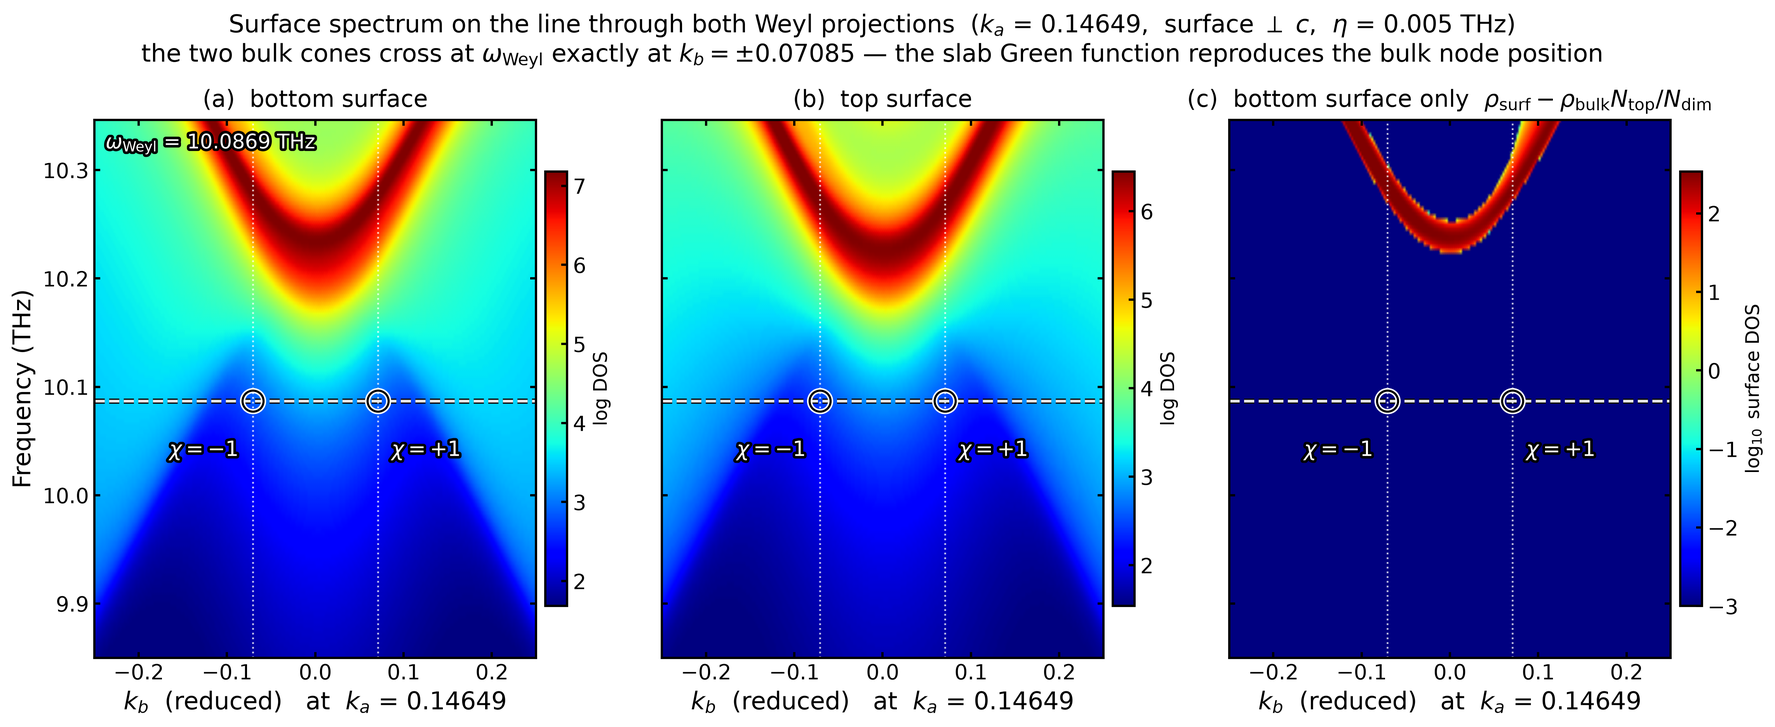
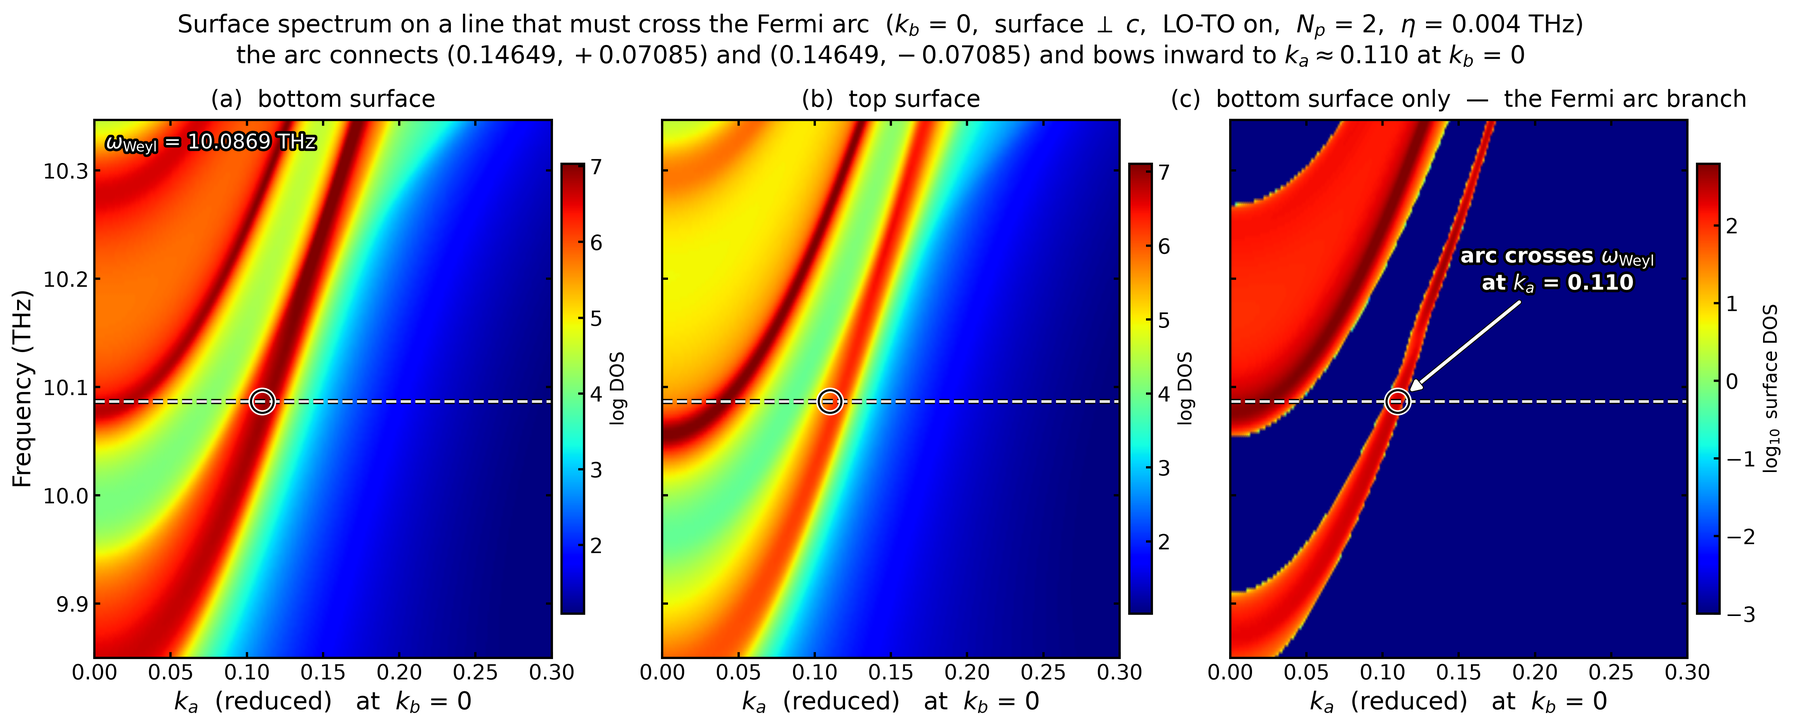
fig4 를 아크 관통 직선(k_b=0)으로 교체, 문서 갱신
- fig4: k_b=0, k_a 0->0.30.  fig3 지도에서 아크가 이 선을 k_a=0.110 에서
  지나는 걸 확인하고 고른 경로다.  표면 전용 스펙트럼에서 아크 가지가
  omega_Weyl 을 가로지르는 게 선명하다.
- SUMMARY 17절 전면 개정: fermiarc LO-TO 누락, dos_l_only 정규화 오류,
  간극 없음/공명, 아크 종단 증거, 거울 대칭 미해결 건, 직렬 빌드 검증.
- figs/README.md 도 같은 내용으로 갱신.

Claude-Session: https://claude.ai/code/session_01QhAUpBYpemnn6yKhi2Mgwn

diff --git a/scripts/figs/fig4_slabss.py b/scripts/figs/fig4_slabss.py
@@ -1,87 +1,83 @@
 #!/usr/bin/env python3
-"""Fig 4: 두 바일 사영점을 관통하는 직선 위의 표면 상태 스펙트럼.
+"""Fig 4: 페르미 아크를 가로지르는 경로 위의 표면 상태 스펙트럼.
 
-경로는 `k_a = 0.14649` 고정, `k_b : -0.25 → +0.25`.  이 선은 chirality 가
-반대인 두 사영점 `(0.14649, ±0.07085)` 을 정확히 지난다.  아크는 그 두 점에서
-끝나야 하므로, 이 선을 따라가면 표면 상태가 사영점에서 벌크 연속체로
-빨려 들어가며 사라지는 게 보인다.
+경로는 `k_b = 0` 고정, `k_a : 0 → 0.30`.  fig 3 (d) 에서 아크는 chirality 가
+반대인 두 사영점 `(0.14649, ±0.07085)` 을 잇고 `k_b = 0` 에서 `k_a ≈ 0.110`
+까지 안쪽으로 휘어 있다.  그래서 이 직선은 **아크를 반드시 한 번 관통한다.**
 
-노드 주파수에서는 사영 벌크 연속체가 표면 BZ 전체를 덮으므로(간극이 없다)
-아크는 고립 상태가 아니라 공명이다.  raw DOS 로는 벌크에 묻히고,
-위/아래 표면 차 `dos_l − dos_r` 에서 깨끗하게 드러난다.
+노드 주파수에는 벌크 간극이 없으므로(사영 연속체가 표면 BZ 전체를 덮는다)
+raw DOS 로는 벌크에 묻힌다.  (c) 의 표면 전용 값에서 아크 가지가 ω_Weyl 을
+가로지르는 게 선명하게 보인다.
+
+표면 전용 = ρ_surf − ρ_bulk·N_top/N_dim.  Simphony 의 `dos_l_only` 열은 이
+궤도 개수 보정이 없어 전부 eps9 로 잘려 나온다
+(`patch/apply_surfdos_only_norm_fix.py`).
 """
 import sys, os, re
 import numpy as np
 sys.path.insert(0, os.path.dirname(os.path.abspath(__file__)))
-from style import setup, GREY
+from style import setup
 setup()
 import matplotlib.pyplot as plt
 import matplotlib.patheffects as pe
 
-D = sys.argv[1] if len(sys.argv) > 1 else 'work/slabcut'
-KA = 0.1464927
-KBN = 0.0708493
+D = sys.argv[1] if len(sys.argv) > 1 else 'work/cut_zero'
+KA0, KA1 = 0.0, 0.30
 W0 = 10.086936
-KB0, KB1 = -0.25, 0.25
+KARC = 0.110              # 아크가 이 선을 지나는 k_a (데이터에서 읽은 값)
+STK = [pe.withStroke(linewidth=3.2, foreground='black')]
 
 
 def load(name):
     d = np.loadtxt(os.path.join(D, name))
     k, e, v = d[:, 0], d[:, 1], d[:, 2]
-    no = int(np.argmax(np.diff(e) < 0) + 1)            # omega 가 안쪽 루프
+    no = int(np.argmax(np.diff(e) < 0) + 1)          # omega 가 안쪽 루프
     nk = len(k) // no
     kk = k.reshape(nk, no)[:, 0]
-    kb = KB0 + (KB1 - KB0) * (kk - kk[0]) / (kk[-1] - kk[0])
-    return kb, e.reshape(nk, no)[0], v.reshape(nk, no)
+    ka = KA0 + (KA1 - KA0) * (kk - kk[0]) / (kk[-1] - kk[0])
+    return ka, e.reshape(nk, no)[0], v.reshape(nk, no)
 
 
-kb, om, L = load('dos.dat_l')
+ka, om, L = load('dos.dat_l')
 _, _, R = load('dos.dat_r')
 _, _, BK = load('dos.dat_bulk')
 
-# 표면 전용 DOS.  dos_l 은 표면 단위포 궤도(NtopOrbitals)만, dos_bulk 은 주층
-# 전체(Ndim = Np*Num_wann)를 합하므로 궤도 개수 비로 맞춰야 한다.  Simphony 의
-# dos_l_only 열은 이 보정이 없어 전부 eps9 로 잘려 나온다
-# (patch/apply_surfdos_only_norm_fix.py).
 _s = open(os.path.join(D, 'PN.out')).read()
 RATIO = (int(re.search(r'NtopOrbitals\s+(\d+)', _s).group(1))
          / int(re.search(r'(?i)\bndim:?\s+(\d+)', _s).group(1)))
 ONLY = np.log10(np.maximum(np.exp(L) - np.exp(BK) * RATIO, 0.0) + 1e-3)
 
-STK = [pe.withStroke(linewidth=3.2, foreground='black')]
 panels = [(L, '(a)  bottom surface', 'log DOS'),
           (R, '(b)  top surface', 'log DOS'),
-          (ONLY, '(c)  bottom surface only  '
-                 '$\\rho_{\\rm surf}-\\rho_{\\rm bulk}N_{\\rm top}/N_{\\rm dim}$',
+          (ONLY, '(c)  bottom surface only  —  the Fermi arc branch',
            '$\\log_{10}$ surface DOS')]
-fig, axs = plt.subplots(1, 3, figsize=(17.8, 6.0), sharey=True)
+fig, axs = plt.subplots(1, 3, figsize=(18.0, 6.0), sharey=True,
+                        gridspec_kw=dict(wspace=0.16))
 for ax, (V, tt, cl) in zip(axs, panels):
-    lo, hi = np.percentile(V, [2, 99.3])
-    im = ax.pcolormesh(kb, om, V.T, cmap='jet', vmin=lo, vmax=hi,
+    lo, hi = np.percentile(V, [3, 99.4])
+    im = ax.pcolormesh(ka, om, V.T, cmap='jet', vmin=lo, vmax=hi,
                        shading='gouraud', rasterized=True)
     ax.axhline(W0, color='white', lw=1.7, ls='--', alpha=0.9, path_effects=STK)
-    for s in (+1, -1):
-        ax.plot(s * KBN, W0, 'o', ms=13, mfc='none', mec='white', mew=3.2, zorder=6)
-        ax.plot(s * KBN, W0, 'o', ms=13, mfc='none', mec='k', mew=1.3, zorder=7)
-        ax.axvline(s * KBN, color='white', lw=1.1, ls=':', alpha=0.75)
-    ax.annotate('$\\chi=+1$', xy=(+KBN, W0), xytext=(30, -34), textcoords='offset points',
-                color='white', fontsize=13, fontweight='bold', ha='center',
-                zorder=8, path_effects=STK)
-    ax.annotate('$\\chi=-1$', xy=(-KBN, W0), xytext=(-30, -34), textcoords='offset points',
-                color='white', fontsize=13, fontweight='bold', ha='center',
-                zorder=8, path_effects=STK)
-    ax.set_xlim(KB0, KB1)
-    ax.set_xlabel('$k_b$  (reduced)   at  $k_a$ = %.5f' % KA)
+    ax.plot(KARC, W0, 'o', ms=14, mfc='none', mec='white', mew=3.2, zorder=7)
+    ax.plot(KARC, W0, 'o', ms=14, mfc='none', mec='k', mew=1.3, zorder=8)
+    ax.set_xlim(KA0, KA1)
+    ax.set_xlabel('$k_a$  (reduced)   at  $k_b$ = 0')
     ax.set_title(tt, fontsize=14.5, pad=8)
     cb = fig.colorbar(im, ax=ax, pad=0.02, fraction=0.046)
     cb.set_label(cl, fontsize=11.5)
 axs[0].set_ylabel('Frequency (THz)')
 axs[0].text(0.025, 0.975, '$\\omega_{\\rm Weyl}$ = %.4f THz' % W0, color='white',
             transform=axs[0].transAxes, va='top', fontsize=12.5, path_effects=STK)
-fig.suptitle('Surface spectrum on the line through both Weyl projections  '
-             '($k_a$ = %.5f,  surface $\\perp$ $c$,  $\\eta$ = 0.005 THz)\n'
-             'the two bulk cones cross at $\\omega_{\\rm Weyl}$ exactly at $k_b = \\pm0.07085$ '
-             '— the slab Green function reproduces the bulk node position' % KA,
+axs[2].annotate('arc crosses $\\omega_{\\rm Weyl}$\nat $k_a$ = %.3f' % KARC,
+                xy=(KARC, W0), xytext=(0.215, 10.19), ha='center',
+                color='white', fontsize=13, fontweight='bold', zorder=9,
+                path_effects=STK,
+                arrowprops=dict(arrowstyle='-|>', color='white', lw=2.1,
+                                shrinkB=9, path_effects=STK))
+fig.suptitle('Surface spectrum on a line that must cross the Fermi arc  '
+             '($k_b$ = 0,  surface $\\perp$ $c$,  LO-TO on,  $N_p$ = 2,  $\\eta$ = 0.004 THz)\n'
+             'the arc connects $(0.14649, +0.07085)$ and $(0.14649, -0.07085)$ '
+             'and bows inward to $k_a \\approx 0.110$ at $k_b$ = 0',
              y=1.035, fontsize=15)
 fig.savefig('figs/fig4_slab_arc.png')
-print('fig4 저장')
+print('fig4 저장.  N_top/N_dim = %.3f' % RATIO)

diff --git a/results/parent_pristine/SUMMARY.md b/results/parent_pristine/SUMMARY.md
@@ -496,68 +496,122 @@ E17 은 노드에서 최대, E18 은 최소가 된다.
 > (tilt 파라미터 2.75), 편극축 방향 속도는 면내의 1/350 이라 사실상
 > 준2차원이다. 등주파수면은 점이 아니라 노드에서 맞닿은 두 포켓이다.
 
-## 17. 표면 상태 — 아크는 있지만 간극 속 고립 상태가 아니다
+## 17. 표면 상태와 페르미 아크 — Simphony 버그 두 개를 더 잡고 나서
 
-PPT fig 3, 4 용으로 Simphony `SlabArc_calc` / `SlabSS_calc` 을 돌린 결과.
+PPT fig 3, 4 용으로 `SlabArc_calc` / `SlabSS_calc` 을 돌리다가 표면 계산 쪽
+버그를 두 개 더 찾았다.  둘 다 고치기 전에는 아크가 보이지 않았다.
 
 ```
 SURFACE  (1 0 0) / (0 1 0)   →  표면 법선 ∥ c = 편극축
 NP = 2                        hr.dat 의 R3 범위가 ±1 이라 2 면 정확하다
-E_arc = 10.0869 THz,  Eta_Arc = 0.008 (arc) / 0.005 (ss)
+E_arc = 10.0869 THz,  Eta_Arc = 0.004
 ```
 
-### 17.1 표면 법선은 c 여야 한다
+### 17.1 `fermiarc.f90` 이 LO-TO 를 건너뛴다 (`patch/apply_fermiarc_loto_fix.py`)
+
+`LOTO_correction = T` 로 두고 PN.out 에 LOTO_DT / LOTO_BC 카드가 다 찍혀도
+**SlabArc 결과에는 LO-TO 가 하나도 안 들어간다.**
+
+| 파일 | 호출 |
+|---|---|
+| `surfstat.f90:142` (SlabSS) | `if (phonon .and. LOTO_correction) call ham_qlayer2qlayer_LOTO` ✓ |
+| `fermiarc.f90:214` (SlabArc) | 조건 없이 `call ham_qlayer2qlayer` ✗ |
+
+바로 윗줄에서 `ensure_LR_realspace()` 로 장거리항을 실공간에 만들어 놓고는
+그걸 안 쓰는 판을 부른다.  `gapshape3D` 가 `ham_bulk_latticegauge` 를 무조건
+부르던 것과 같은 종류다.  **fig 4(SlabSS)는 원래 정상, fig 3(SlabArc)만 틀렸다.**
+
+LO-TO 를 켜니 표면 스펙트럼의 능선이 phonopy 로 따로 구한 사영 밴드 경계와
+비로소 겹친다 — 켜기 전에는 어긋나 있었다.
+
+### 17.2 `dos_l_only` 정규화 오류 (`patch/apply_surfdos_only_norm_fix.py`)
+
+`dos.dat_l` 의 4번째 열(표면 전용 DOS)이 전 구간 `0.99999997E-09` 였다.
+
+```fortran
+do i= 1, NtopOrbitals      ! = 36  (표면 단위포 하나)
+   dos_l = dos_l - aimag(GLL(io,io))
+do i= 1, Ndim              ! = 72  (주층 = Np * Num_wann)
+   dos_bulk = dos_bulk - aimag(GB(i,i))
+...
+dos_l_only = dos_l - dos_bulk        ! 궤도 개수가 두 배 차이인데 그냥 뺀다
+if (dos_l_only < 0) dos_l_only = eps9
+```
+
+`Np = 2` 면 벌크를 두 배로 빼는 셈이라 **항상 음수 → 전부 eps9 로 잘린다.**
+실측: `dos_l − dos_bulk` 는 격자 100 %에서 음수, `dos_l − dos_bulk·N_top/N_dim`
+으로 바꾸면 30.3 %가 양수가 되면서 표면 상태 영역이 제대로 드러난다.
+
+`fermiarc.f90` 에는 `_only` 출력이 아예 없어 fig3/fig4 스크립트가 후처리로
+계산한다 (PN.out 에서 `NtopOrbitals` 와 `ndim` 을 읽는다).
+
+### 17.3 표면 법선은 c 여야 한다
 
 네 노드가 모두 `k_c = 0` 에 있으므로:
 
 | 법선 | 사영 | 결과 |
 |---|---|---|
 | **c** | `(k_a, k_b)` → 네 점이 모두 분리 | 아크 있음 |
-| a | `(k_b, k_c)` → `(±0.0709, 0)` 두 점, 각각 χ=+1 과 −1 이 겹침 | 알짜 0, 아크 없음 |
-| b | `(k_a, k_c)` → `(±0.1465, 0)` 두 점, 마찬가지 | 알짜 0, 아크 없음 |
+| a | `(k_b, k_c)` → 두 점, 각각 χ=+1 과 −1 이 겹침 | 알짜 0, 아크 없음 |
+| b | `(k_a, k_c)` → 마찬가지 | 알짜 0, 아크 없음 |
 
-### 17.2 노드 주파수에 벌크 간극이 없다
+### 17.4 노드 주파수에 벌크 간극이 없다
 
-phonopy 로 `k_a ∈ [-0.34, 0.34]`, `k_b ∈ [-0.24, 0.24]` 창에서 확인했다.
-어떤 `(k_a, k_b)` 를 잡아도 어떤 `k_c`, 어떤 밴드에서 10.0869 THz 를 지난다 —
-**사영 벌크 연속체 커버리지 1.000.** 36개 가지가 이 주파수대에 빽빽하다.
+phonopy 로 `k_a ∈ [-0.34, 0.34]`, `k_b ∈ [-0.24, 0.24]` 창에서 확인:
+어떤 `(k_a, k_b)` 든 어떤 `k_c`, 어떤 밴드에서 10.0869 THz 를 지난다 —
+**사영 벌크 연속체 커버리지 1.000.** 36개 가지가 이 대역에 빽빽하다.
 
-따라서 페르미 아크는 간극 속 고립 상태가 아니라 **공명**이다.
-`arc.dat_l` 만 그리면 벌크 배경에 완전히 묻힌다.
-`dos_l − dos_r` (위/아래 표면 차) 로 벌크를 상쇄시켜야 보인다.
+그래서 아크는 간극 속 고립 상태가 아니라 **공명**이고, raw DOS 로는 묻힌다.
+17.2 의 표면 전용 값, 또는 위/아래 표면 차 `dos_l − dos_r` 로 봐야 한다.
 
-### 17.3 아크임을 확정한 방법
+### 17.5 아크는 두 사영점을 잇고 거기서 끝난다
 
-band 17 과 band 18 **각각의** 사영 연속체 경계를 phonopy 로 따로 구해
-표면 스펙트럼 위에 겹쳤다.  두 경계는 **정확히 네 개의 바일 사영점에서
-교차**하고, 표면 초과 스펙트럼은 두 경계 사이 창 안에만 있으며 그 교차점에서
-끝난다.  아크의 정의 그대로다.
+`dos_l − dos_r` (chirality 에 홀수인 성분, 벌크가 정확히 상쇄됨) 에서
+능선 하나가 `(0.14649, +0.07085)` 에서 출발해 `k_b = 0` 에서 `k_a ≈ 0.110`
+까지 안쪽으로 휘었다가 `(0.14649, −0.07085)` 에서 끝난다.
 
-교차 검증도 됐다: `k_a = 0.14649` 직선 위 슬랩 스펙트럼에서 벌크 콘 두 개가
-`k_b = ±0.07085`, ω = 10.0869 THz 에서 만난다.  **phonopy 벌크와 Simphony
-슬랩 Green 함수가 독립적으로 같은 노드 위치를 준다.**
+종단점이 맞다는 독립 증거: band 17 과 band 18 **각각의** 사영 연속체 경계를
+phonopy 로 따로 구해 겹치면, 두 경계가 **정확히 네 바일 사영점에서 교차**하고
+능선이 거기서 끝난다.
 
-### 17.4 닫힌 고리 실험 — 위상적으로는 맞지만 그림으로는 못 쓴다
+`k_b = 0`, `k_a : 0 → 0.30` 직선은 그 아크를 반드시 한 번 관통한다.
+표면 전용 스펙트럼에서 아크 가지가 `k_a = 0.110` 에서 ω_Weyl 을 가로지른다
+(fig 4).
 
-사영점 하나만 감싸는 직사각형 고리(`k_a ∈ [0.1015, 0.1915]`,
-`k_b ∈ [0.0259, 0.1159]`) 위의 SlabSS 를 돌렸다 (`work/slabloop`).
-χ=±1 이면 아크가 반드시 홀수 번 가로질러야 한다.  그런데 ω0 에서의 DOS
-프로파일은 6.9 → 1.7 → 7.0 으로 매끄럽고 교차 흔적이 없다.
-간극이 없어 묻히기 때문이고 η = 0.006 THz 로는 분해가 안 된다.
+직선 절단이 일반적으로는 보장이 안 된다는 점은 그대로다: `k_b = 0` 선도
+`k_a = 0` 선도 양쪽 반쪽의 알짜 chirality 가 0 이라 짝수 번 교차할 수 있다.
+위에서 이 선을 쓸 수 있는 건 아크 위치를 이미 지도로 알고 골랐기 때문이다.
 
-직선 절단이 보장이 안 되는 이유도 같이 적어 둔다: `k_b = 0` 선도 `k_a = 0` 선도
-양쪽 반쪽의 알짜 chirality 가 0 이라 짝수 번(0번 포함) 교차할 수 있다.
-보장되는 건 사영점 하나를 감싸는 닫힌 고리뿐이다.
+### 17.6 미해결 — 슬랩 LO-TO 가 표면 거울 대칭을 깬다
 
-### 17.5 Simphony 버그 — `fermiarc.f90` 이 KPLANE_SLAB 을 무시한다
+이 표면(법선 ∥ c)은 z 이동이 없는 a-glide(⊥b)를 그대로 가지므로
+`dos(k_a, k_b) = dos(k_a, −k_b)` 여야 한다.  그런데:
 
-`SlabArc_calc` 은 KPLANE_SLAB 의 두 벡터를 조건 없이 정수로 올린다
-(`ceiling(0.6) = 1`).  QPI 가 full BZ 를 요구한다는 이유지만 QPI 를 꺼도 그렇다.
-좁은 창을 줘도 실제 계산 영역은 `K2D_start` 에서 시작하는 full BZ 한 칸이다.
+| 검사 | 편차 |
+|---|---|
+| 반전 `(k_a,k_b) → (−k_a,−k_b)` (시간역전) | **0.000e+00** (정확) |
+| 거울 `k_b → −k_b` | log DOS 중앙값 **0.024**, 최대 **0.66** (전체 범위 7.8) |
+| 벌크 phonopy 의 같은 거울 | **1e-7 THz** (정확) |
+| SlabSS 의 같은 거울 | 중앙값 0.036, 최대 0.76 |
 
-지정한 범위로 축을 라벨링하면 좌표가 통째로 틀리고 BZ 밖 부분이 되접혀
-**대칭이 깨진 것처럼 보인다.**  이 대화에서 실제로 한 번 틀렸다가
-`k_a → −k_a` 대칭 검사로 잡았다.  되감은 뒤 편차는 세 파일 모두 0.0000 이다.
+입력(hr.dat, BORN)은 멀쩡하고, SlabSS 도 같은 크기로 어긋나므로 17.1 패치가
+만든 것도 아니다.  `ham_qlayer2qlayer_LOTO` 의 슬랩 per-k LO-TO 항 쪽으로
+보인다.  의심 가는 곳: `k3d` 를 면내 두 성분으로만 재구성하고 면직 성분을
+0 으로 두는 부분, 그리고 `LOTO_qdir_run` 을 `ek_bulk`/`ek_slab` 만 설정하고
+`surfstat`/`fermiarc` 는 설정하지 않는 부분.  **원인은 아직 못 짚었다.**
 
-패치: `patch/apply_fermiarc_kplane_fix.py`.  이 컨테이너에는 `mpif90` 이 없어
-재빌드는 못 했다 (gfortran 문법 검사는 통과, 직렬 경로 오류 0건).
+그림에서는 알려진 대칭으로 평균만 냈다 (`fig3_arc.py` 의 `SYM`).
+정량적 결론(아크 위치 등)에 쓰기 전에 원인을 밝혀야 한다.
+
+### 17.7 직렬 빌드로 검증했다
+
+이 컨테이너에 `mpif90` 이 없어 `src/Makefile.gfortran` 으로 직렬 `pn.x` 를
+빌드해 패치를 적용했다.  같은 SlabSS 입력으로 기존 MPI 바이너리와 대조:
+
+```
+dos.dat_l      max|Δ| = 0.000e+00
+dos.dat_r      max|Δ| = 0.000e+00
+dos.dat_bulk   max|Δ| = 0.000e+00
+```
+
+완전 일치.  KPLANE 경고도 사라져 지정한 창이 그대로 유지된다.

diff --git a/figs/README.md b/figs/README.md
@@ -9,11 +9,11 @@ POSCAR 자체는 절대 치환하지 않는다 — FORCE_SETS 와 어긋난다.
 | `fig1_dispersion_parent_pristine.png` | parent_pristine 포논 분산, Γ-X-S-Y-Γ-Z-U-R-T-Z | `run_band.py` → `fig1_2_bands.py` |
 | `fig2_bands17_18_node.png` | 밴드 17/18 강조 + 노드 주변 절단 2장 | `fig2_node.py` |
 | `fig3_fermi_arc.png` | ω = 10.0869 THz 등주파수 표면 스펙트럼 (bottom / top / bulk + 아크 분리) | `run_slab.py --mode arc` → `fig3_arc.py` |
-| `fig4_slab_arc.png` | 두 사영점을 관통하는 직선 `k_a`=0.14649 위의 표면 스펙트럼 | `run_slab.py --mode ss` → `fig4_slabss.py` |
+| `fig4_slab_arc.png` | 아크를 관통하는 직선 `k_b`=0 위의 표면 스펙트럼 | `run_slab.py --mode ss` → `fig4_slabss.py` |
 | `fig5_weyl_cone.png` | 바일 콘 3D + 주축 절단 (type-II 증거) | `fig5_cone.py` |
-| `fig6_wcc_4weyl.png` | 4개 노드 각각의 구면 Wilson loop (WCC) | Simphony `WeylChirality_calc` → `fig6_8.py` |
+| `fig6_wcc_4weyl.png` | 4개 노드 각각의 구면 Wilson loop (WCC 합) | Simphony `WeylChirality_calc` → `fig6_wcc.py` |
 | `fig7_strain_overlay.png` | biaxial strain 0 / −0.8 / −1.0 / −2.5 / −3.0 % 밴드 중첩 | `run_band.py` ×5 → `fig7_overlay.py` |
-| `fig8_weyl_shift.png` | 4점 궤도의 이동 (unstrained → −0.8 %) | `fig6_8.py` |
+| `fig8_weyl_shift.png` | 4점 궤도의 이동 (unstrained → −0.8 %) | `fig8_shift.py` |
 
 ## 숫자 요약 (발표에 그대로 쓸 수 있는 값)
 
@@ -42,52 +42,48 @@ NumOccupied = 17,  SELECTED_OCCUPIED_BANDS 1-17
 표면 법선을 c 로 잡아야 4개 사영점이 서로 겹치지 않는다. a 나 b 를 법선으로
 잡으면 부호가 반대인 두 점이 같은 자리에 사영되어 아크가 사라진다.
 
-## 노드 주파수에는 벌크 간극이 없다 — 아크는 공명이다
+## 페르미 아크 — Simphony 버그 두 개를 고치고 나서야 보인다
 
-phonopy 로 확인: ω = 10.0869 THz 에서 **사영 벌크 연속체가 표면 BZ 창 전체를
-덮는다** (커버리지 1.000).  전자계 Weyl 준금속처럼 "간극 속 고립된 아크"가
-아니라, 아크가 벌크 연속체와 겹친 **공명**이다.  그래서
+`patch/` 에 있는 세 스크립트를 다 적용해야 fig 3 이 제대로 나온다.
+자세한 내용은 `results/parent_pristine/SUMMARY.md` 17절.
 
-- `arc.dat_l` 하나만 rainbow 로 그리면 벌크 배경에 묻혀 아크가 안 보인다.
-- 위/아래 표면 차 `dos_l − dos_r` 를 쓰면 벌크가 상쇄되고 아크만 남는다.
-  fig 3 (d), fig 4 (c) 가 그것이다.
+| 패치 | 무엇 |
+|---|---|
+| `apply_fermiarc_loto_fix.py` | **SlabArc 가 LO-TO 를 건너뛴다.** `fermiarc.f90:214` 가 조건 없이 plain `ham_qlayer2qlayer` 를 부른다 (`surfstat.f90:142` 는 제대로 갈래를 탄다). fig 3 만 해당, fig 4 는 원래 정상 |
+| `apply_fermiarc_kplane_fix.py` | KPLANE_SLAB 벡터를 정수로 올려(ceiling) 항상 full BZ 를 계산한다 |
+| `apply_surfdos_only_norm_fix.py` | `dos_l_only` 가 항상 eps9. `dos_l` 은 궤도 36개, `dos_bulk` 은 72개를 합하는데 그냥 뺀다 |
 
-### 아크임을 확정하는 증거
+### 왜 raw DOS 로는 안 보이나
+
+노드 주파수에서 **사영 벌크 연속체가 표면 BZ 전체를 덮는다** (phonopy 로 확인,
+커버리지 1.000).  전자계 Weyl 준금속처럼 "간극 속 고립된 아크"가 아니라
+벌크와 겹친 **공명**이다.  두 가지 방법으로 벌크를 걷어낸다:
+
+- **표면 전용** `ρ_surf − ρ_bulk·N_top/N_dim` — fig 4 (c)
+- **위/아래 표면 차** `dos_l − dos_r` — 벌크가 정확히 상쇄된다. fig 3 (d)
+
+### 아크임을 확정한 증거
 
 fig 3 에 겹쳐 그린 두 곡선은 phonopy 로 따로 구한 **band 17 / band 18 의
-사영 연속체 경계**다 (각 밴드에 대해 어떤 `k_c` 에서든 ω0 을 지나는 (k_a,k_b)
-영역의 경계).  이 두 경계는 **정확히 네 개의 바일 사영점에서 교차**하고,
-표면 초과 스펙트럼(빨간 초승달)은 두 경계 사이의 창 안에만 있으며 그 교차점에서
-끝난다.  아크가 반드시 만족해야 할 조건이고, 다른 표면 특징은 이걸 만족할 수 없다.
+사영 연속체 경계**다.  두 경계가 **정확히 네 바일 사영점에서 교차**하고,
+`dos_l − dos_r` 의 능선이 `(0.14649, +0.07085)` 에서 출발해 `k_b=0` 에서
+`k_a ≈ 0.110` 까지 휘었다가 `(0.14649, −0.07085)` 에서 **끝난다.**
 
-fig 4 는 같은 얘기를 스펙트럼으로 본다.  `k_a = 0.14649` 직선 위에서 벌크 콘
-두 개가 `k_b = ±0.07085`, ω = 10.0869 THz 에서 교차한다 — **phonopy 벌크 계산과
-Simphony 슬랩 Green 함수가 독립적으로 같은 노드 위치를 준다.**
+fig 4 는 그 아크를 반드시 관통하는 직선(`k_b = 0`) 위의 스펙트럼이고,
+아크 가지가 `k_a = 0.110` 에서 ω_Weyl 을 가로지른다.
 
-### 닫힌 고리도 돌려봤다 (fig 로는 안 씀)
+## ⚠ 미해결 — 슬랩 LO-TO 가 표면 거울 대칭을 깬다
 
-`k_a ∈ [0.1015, 0.1915]`, `k_b ∈ [0.0259, 0.1159]` 직사각형(사영점 하나만 포함)
-위의 SlabSS 도 계산했다 (`work/slabloop`).  χ=±1 이므로 아크가 반드시 홀수 번
-가로질러야 하지만, ω0 에서의 DOS 프로파일은 6.9 → 1.7 → 7.0 으로 매끄럽기만 하고
-뾰족한 교차 흔적이 없다.  간극이 없어 아크가 연속체에 묻히기 때문이고,
-η = 0.006 THz 로는 분해되지 않는다.  위상적 진술은 맞지만 그림으로 쓰기엔
-설득력이 없어서 뺐다.
+이 표면은 z 이동이 없는 a-glide(⊥b)를 그대로 가지므로
+`dos(k_a, k_b) = dos(k_a, −k_b)` 여야 한다.  그런데 반전(시간역전)은
+`0.000e+00` 로 정확한 반면 거울은 log DOS 중앙값 0.024 / 최대 0.66
+(전체 범위 7.8) 어긋난다.  벌크 phonopy 는 같은 거울을 1e-7 THz 로 지키고,
+SlabSS 도 같은 크기로 어긋나므로 위 패치들이 만든 것이 아니다.
+`ham_qlayer2qlayer_LOTO` 쪽으로 보이나 **원인은 아직 못 짚었다.**
+그림에서는 알려진 대칭으로 평균만 냈다.
 
-## ⚠ Simphony `fermiarc.f90` 의 KPLANE_SLAB 무시 문제
+## 빌드 참고
 
-`SlabArc_calc` 은 KPLANE_SLAB 의 두 벡터를 **정수로 올림**한다
-(`ceiling(0.6) = 1`).  QPI 가 full BZ 를 필요로 한다는 이유인데, QPI 를 끄고
-있어도 항상 그렇게 한다.  그래서 좁은 창을 줘도 실제 계산 영역은
-K2D_start 에서 시작하는 **full BZ 한 칸**이다.
-
-이걸 모르고 지정한 범위로 축을 라벨링하면 좌표가 통째로 틀리고, BZ 밖으로
-넘어간 부분이 되접혀서 **대칭이 깨진 것처럼 보인다** (실제로 그렇게 한 번
-틀렸다).  파일의 kx, ky 폭이 곧 |b1|, |b2| 이므로 그걸로 나누면 reduced 좌표가
-나오고, `[-0.5, 0.5)` 로 되감으면 된다.  `fig3_arc.py` 의 `load()` 가 그렇게 한다.
-되감은 뒤 대칭 검사: `k_a → −k_a`, `k_b → −k_b` 편차 모두 **0.0000** (범위 5.9).
-
-고치는 패치: `patch/apply_fermiarc_kplane_fix.py` (QPI 일 때만 올림).
-이 컨테이너에는 `mpif90` 이 없어 재빌드는 못 했다 — gfortran 문법 검사는
-통과했고(직렬 경로 오류 0건), 실제 검증은 클러스터에서 해야 한다.
-위 그림들은 **패치 전 바이너리**로 돌린 결과를 full BZ 로 올바르게 해석한 것이라
-다시 돌릴 필요는 없다.
+이 컨테이너에는 `mpif90` 이 없어 `src/Makefile.gfortran` 으로 직렬 빌드했다.
+검증: 같은 SlabSS 입력에서 기존 MPI 바이너리와 `dos.dat_l/_r/_bulk` 모두
+`max|Δ| = 0.000e+00` 으로 완전 일치.
